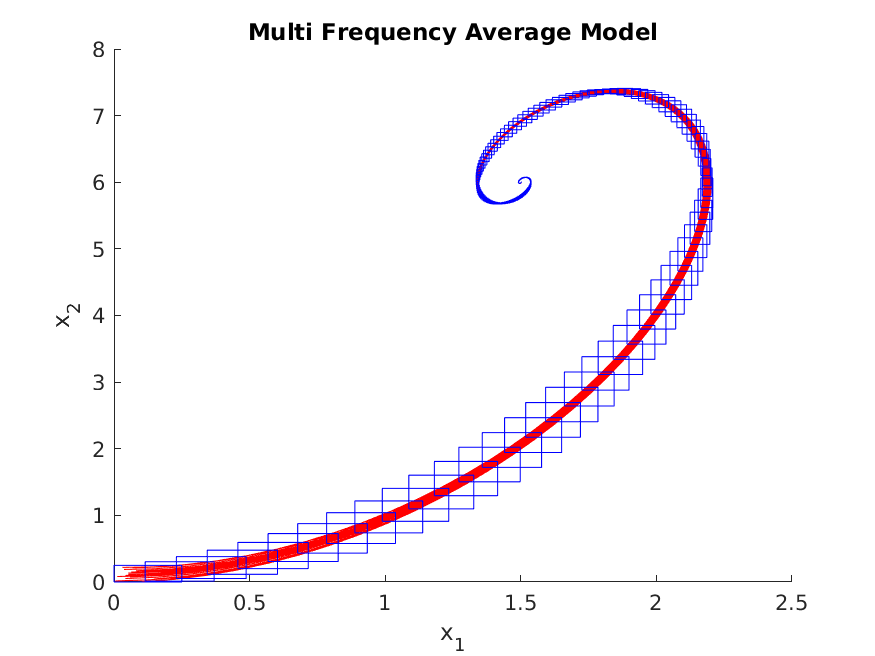
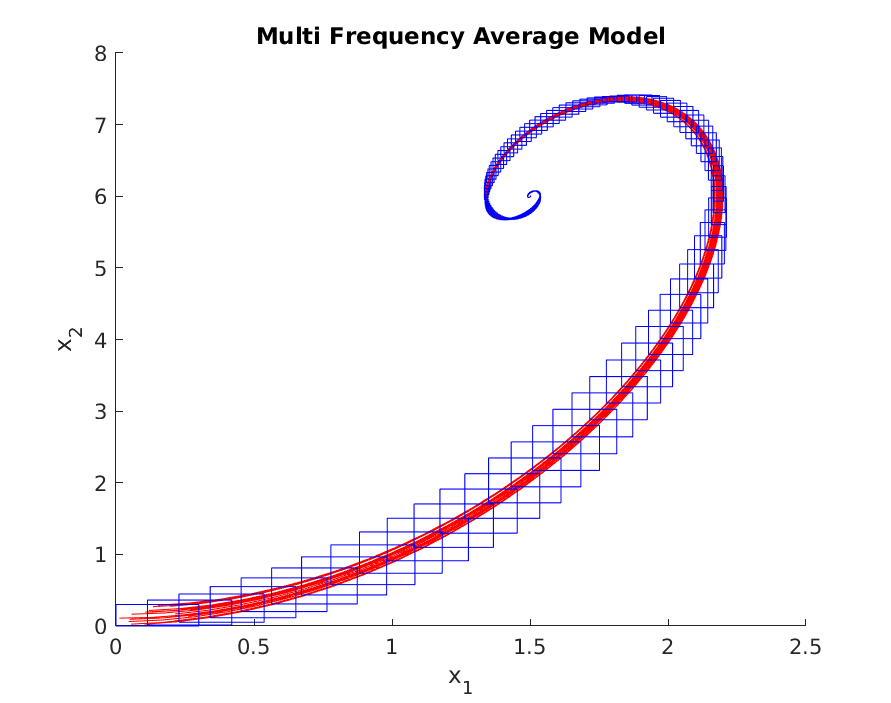
Reach results

diff --git a/MultFreqAvgModel/reachMFAM.m b/MultFreqAvgModel/reachMFAM.m
@@ -62,7 +62,7 @@ nlPlant = NonLinearODE(6,1,@dynamicsMFAM,reachStep,controlPeriod,C); % Nonlinear
 N = 25; % Number of control steps to simulate the system
 
 lb = [0;0;0;0;0;0];
-ub = [0.25;0.25;0.1;0.1;0.1;0.1];
+ub = [0.3;0.3;0.1;0.1;0.1;0.1];
 init_set = Star(lb,ub);
 
 %% Simulation (MATLAB & CORA)

diff --git a/AverageModel/reachAM.m b/AverageModel/reachAM.m
@@ -45,7 +45,7 @@ nlPlant = NonLinearODE(2,1,@dynamicsAM,reachStep,controlPeriod,C); % Nonlinear O
 N = 25; % Number of control steps to simulate the system
 
 lb = [0;0];
-ub = [0.3;0.3];
+ub = [0.5;0.5];
 
 %% Simulation (MATLAB & CORA)
 
